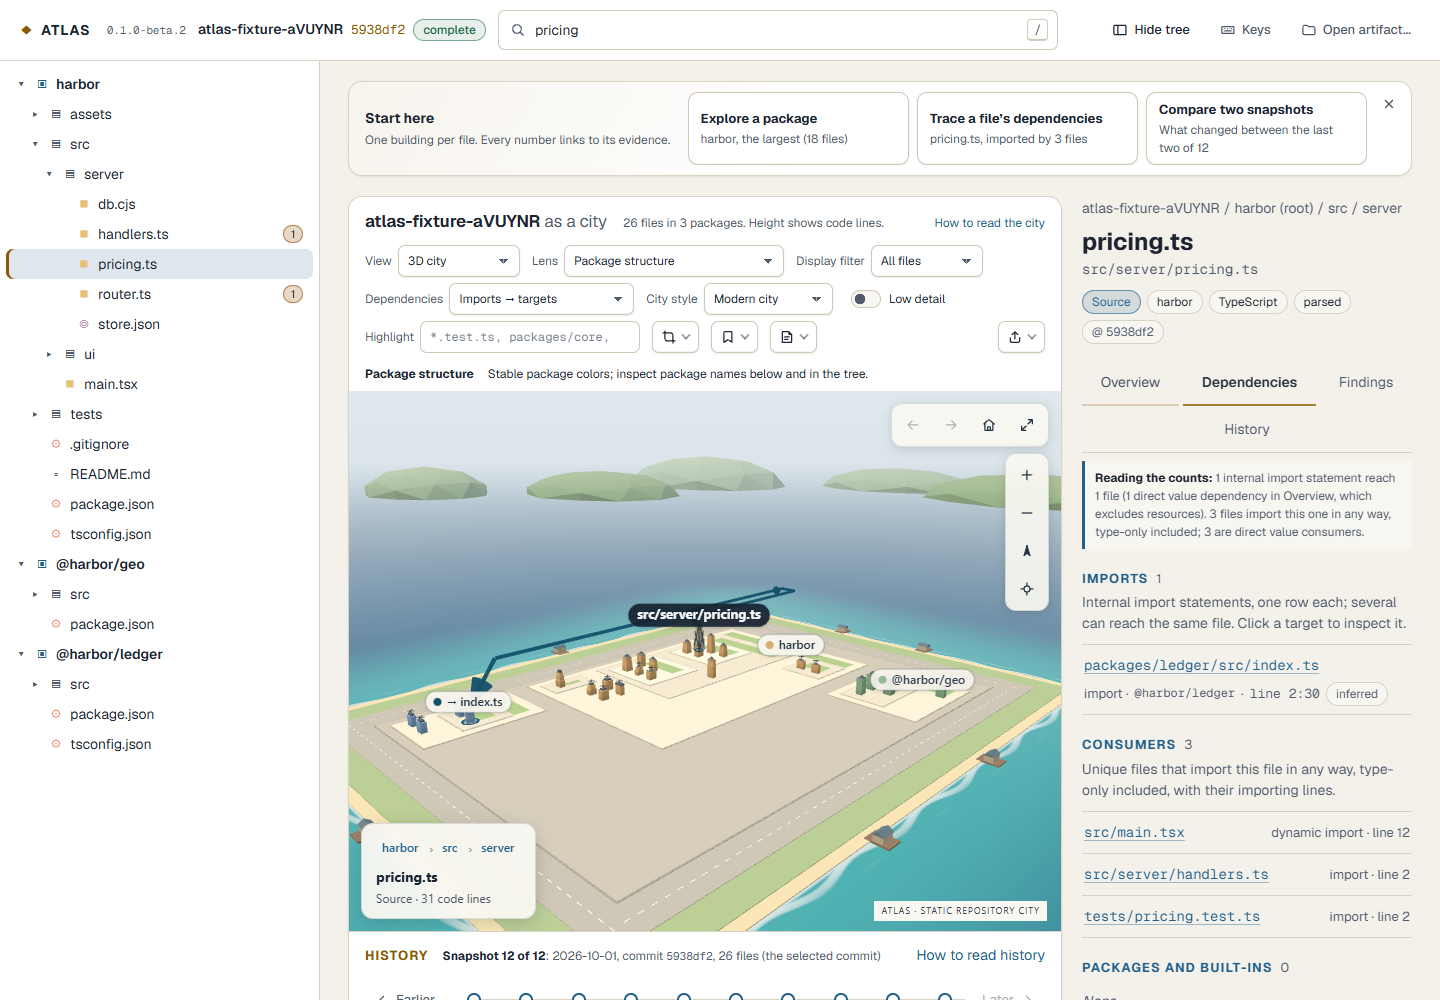
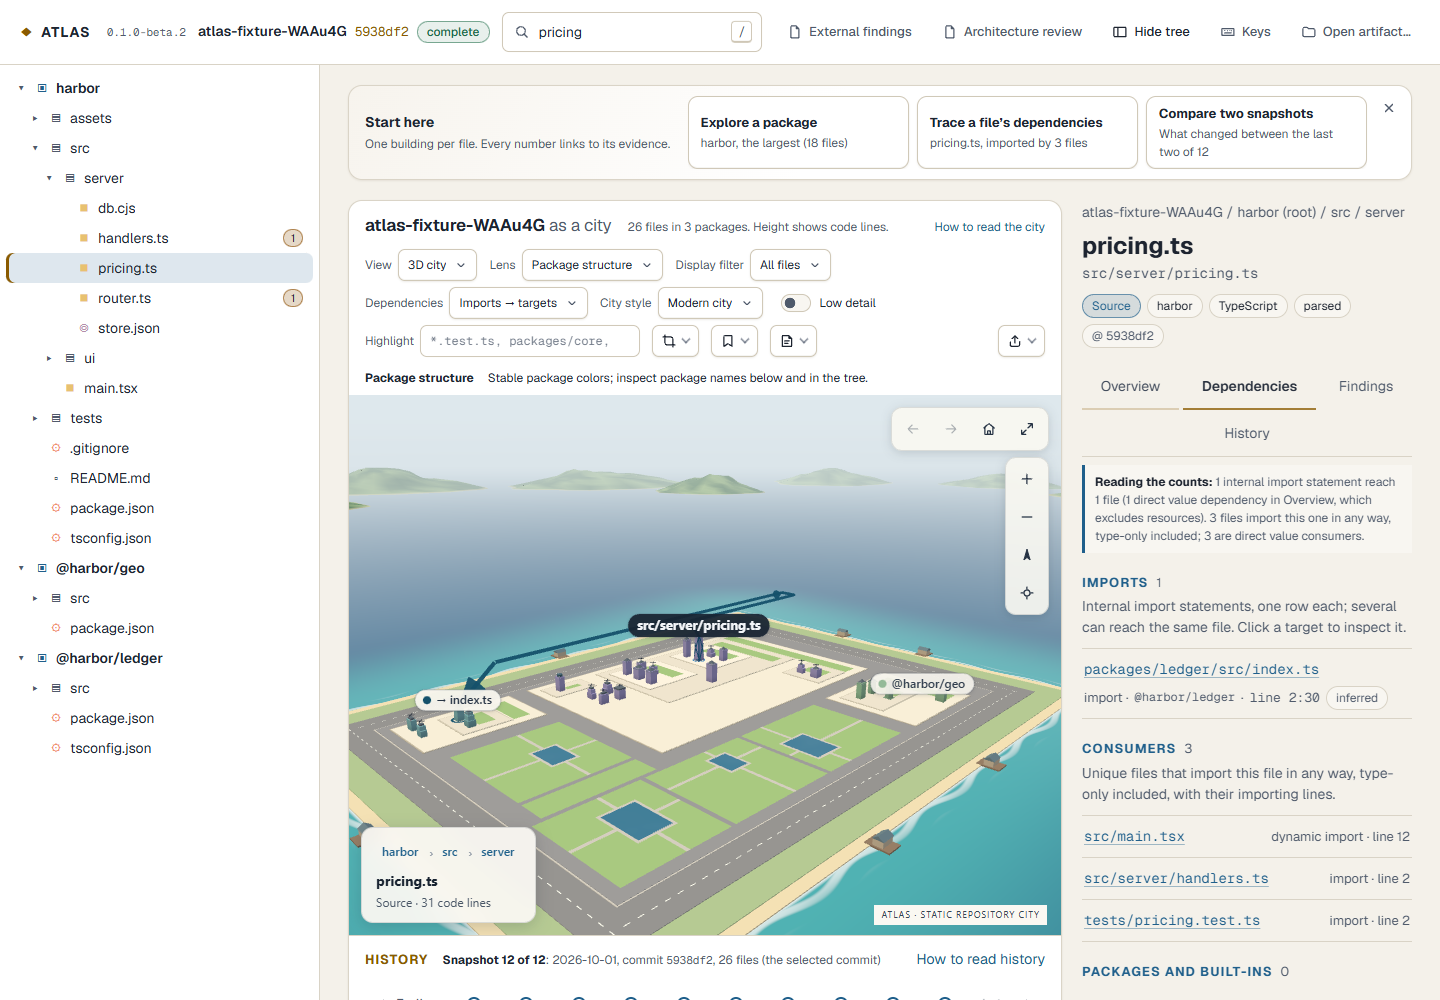
Fix the four CI failures on the dropdowns PR (ADR-106)
- Focus race (verify, Ubuntu): Radix hands focus back to a closed list's
  trigger a task later. A decision chosen in one dropdown opened the draft
  editor, which focused its own field, and the late hand-back pulled focus
  away, failing the keyboard journey. The trigger now takes focus back only
  if nothing else has taken it meanwhile; mouse, keyboard and Escape still
  return focus to the trigger.
- License text (verify, macOS and Windows): react-remove-scroll-bar@2.3.8,
  pulled in by Radix, was published without a license file, so the CLI
  distribution stopped. As for @react-three/fiber@9.8.2, the packager now
  supplies the author's MIT text for that exact version, pinned to the
  upstream Git blob 7c08c399.
- Scrolling list (viewer journeys, Firefox): the grouped Lens list (about
  460 px) scrolled inside a 360 px panel and a choice near its end timed out
  once. The panel may now grow to 520 px or the space available, and the
  test helper brings a choice into view before clicking it.
- The distribution smoke test and the demo-site deploy check still used
  selectOption; they now open the dropdown and pick by value. Without this
  the next demo deploy would have failed.

Verified locally: viewer journeys 64/64 in Chromium (CI mode) and Firefox;
pnpm verify:distribution passes all 26 stages; check-demo-site reports no
problems.

Claude-Session: https://claude.ai/code/session_01XTC9nrJrtX2mTuDbkYysxQ

diff --git a/apps/web/src/components/Select.tsx b/apps/web/src/components/Select.tsx
@@ -55,7 +55,19 @@ export function Select({ value, onValueChange, choices, id, disabled, title, cla
         </Primitive.Icon>
       </Primitive.Trigger>
       <Primitive.Portal>
-        <Primitive.Content className="select-content" position="popper" sideOffset={6} collisionPadding={8}>
+        <Primitive.Content
+          className="select-content"
+          position="popper"
+          sideOffset={6}
+          collisionPadding={8}
+          // Closing hands focus back to the trigger, but Radix does it a task later. If
+          // something else has taken focus by then (a choice that opened an editor, a fast
+          // keyboard user), leave it there instead of pulling it back.
+          onCloseAutoFocus={(event) => {
+            const active = document.activeElement;
+            if (active && active !== document.body && !active.closest('.select-content')) event.preventDefault();
+          }}
+        >
           <Primitive.ScrollUpButton className="select-scroll">
             <Icon name="chevronUp" size={14} />
           </Primitive.ScrollUpButton>

diff --git a/packages/cli/test/viewer.e2e.test.ts b/packages/cli/test/viewer.e2e.test.ts
@@ -191,8 +191,14 @@ const focusedText = (page: Page) =>
 async function chooseOption(select: Locator, value: string): Promise<void> {
   await select.click();
   const page = select.page();
-  await page.locator(`[role="option"][data-value="${value}"]`).click();
+  const option = page.locator(`[role="option"][data-value="${value}"]`);
+  // A long list scrolls inside its panel: bring the choice into view before clicking it.
+  await option.evaluate((element) => element.scrollIntoView({ block: 'nearest' }));
+  await option.click();
   await page.locator('.select-content').waitFor({ state: 'detached' });
+  // Let the close finish (React's effects and the focus hand-back run a frame and a task
+  // later), as a person's next action would, so the next step starts from a settled page.
+  await page.evaluate(() => new Promise((resolve) => requestAnimationFrame(() => setTimeout(resolve, 0))));
 }
 
 /** The current value of one of the viewer's dropdowns, as `inputValue` read it from a `<select>`. */

diff --git a/apps/web/src/styles/app.css b/apps/web/src/styles/app.css
@@ -913,7 +913,8 @@ h2:focus-visible {
 .select-content {
   z-index: 1000;
   min-width: var(--radix-select-trigger-width);
-  max-height: min(360px, var(--radix-select-content-available-height));
+  /* Tall enough for the grouped Lens list (about 460 px) without scrolling. */
+  max-height: min(520px, var(--radix-select-content-available-height));
   overflow: hidden;
   color: var(--text);
   background: var(--panel);

diff --git a/docs/release/distribution-smoke.md b/docs/release/distribution-smoke.md
@@ -1,17 +1,37 @@
 # CLI distribution candidate: fresh-install smoke
 
-Recorded 2026-10-18T15:36:00.333Z on Windows_NT 10.0.26200 x64, Node v24.22.0.
+Recorded 2026-11-21T09:02:48.872Z on Windows_NT 10.0.26200 x64, Node v24.22.1.
 
[2 lines of base64/hex data omitted]
 
 Extracted into a fresh temporary directory outside the checkout, verified every distributed file, and ran without a package manager or any dependency install. CLI entry-process outbound sockets were denied. The browser accepted only the loopback server origin.
 
-- relocated-extraction-and-integrity: passed (1586 files).
-- doctor: passed (0.81 s).
-- analyze: passed (6.35 s).
-- verify: passed (0.72 s).
-- inspect: passed (0.63 s).
+- relocated-extraction-and-integrity: passed (1709 files).
+- doctor: passed (0.72 s).
+- analyze: passed (1.74 s).
+- findings: passed (0.61 s).
+- findings: passed (0.63 s).
+- scan-evidence: passed (0.63 s).
+- analyze: passed (2.09 s).
+- findings: passed (0.69 s).
+- scan-evidence: passed (0.72 s).
+- findings: passed (0.64 s).
+- scan-evidence: passed (0.62 s).
+- review-findings: passed (1.02 s).
+- analyze: passed (4.02 s).
+- verify: passed (0.73 s).
+- inspect: passed (0.64 s).
+- review-architecture: passed (0.79 s).
+- review-architecture: passed (0.65 s).
+- workspace-init: passed (0.63 s).
+- workspace-decide: passed (0.65 s).
+- workspace-export: passed (0.67 s).
+- workspace-import: passed (0.65 s).
+- workspace-inspect: passed (0.74 s).
 - packaged-browser-city-history-search-and-dependencies: passed.
+- packaged-browser-workspace-evidence: passed.
+- workspace-import: passed (0.92 s).
+- packaged-browser-workspace-draft: passed.
 
 The authored Harbor repository yielded all 12 frames and 26 HEAD files. The bundled viewer opened that artifact, searched with the keyboard and showed its independently checked ledger dependency. Zero page errors or browser outbound requests. Software rendering validates behavior; it is not a reference-GPU benchmark.
 

diff --git a/docs/release/licenses/README.md b/docs/release/licenses/README.md
@@ -1,8 +1,20 @@
 # Supplementary distribution licenses
 
-The installed `@react-three/fiber@9.8.2` npm payload lacks its upstream license file. The CLI distribution includes the complete MIT text from the corresponding upstream tag, pinned to Git object `d74622ea8ed717f7212d7e19d65ff3e325508389`:
+Two installed npm payloads lack their upstream license file. The CLI distribution includes
+the complete MIT text for each from the upstream repository, pinned to a Git object:
 
-- [Upstream LICENSE](https://github.com/pmndrs/react-three-fiber/blob/d74622ea8ed717f7212d7e19d65ff3e325508389/LICENSE)
-- Local copy: `react-three-fiber-9.8.2-LICENSE`.
+- `@react-three/fiber@9.8.2`: the corresponding upstream tag,
+  [LICENSE at `d74622ea8ed717f7212d7e19d65ff3e325508389`](https://github.com/pmndrs/react-three-fiber/blob/d74622ea8ed717f7212d7e19d65ff3e325508389/LICENSE).
+  Local copy: `react-three-fiber-9.8.2-LICENSE`.
+- `react-remove-scroll-bar@2.3.8` (a dependency of `@radix-ui/react-select`, ADR-106). Its
+  `package.json` declares MIT (author Anton Korzunov). The repository had no license file
+  when 2.3.8 was published (2024-12-15; npm's `gitHead` is not on GitHub); the author added
+  the MIT text in
+  [`7301c160fda44cb8cf2b9fdfde61efad35736196`](https://github.com/theKashey/react-remove-scroll-bar/blob/7301c160fda44cb8cf2b9fdfde61efad35736196/LICENSE)
+  (blob `7c08c3990396ecefd90f99ff5d9a34f26f5b5616`, which the local copy matches).
+  Local copy: `react-remove-scroll-bar-2.3.8-LICENSE`.
 
-The packager uses this exception only for that exact package/version; a version change requires review of the corresponding license. All other third-party license texts come directly from the locked installed npm payloads. Building the distribution performs no network request.
+The packager uses these exceptions only for those exact packages and versions; a version
+change requires review of the corresponding license. All other third-party license texts
+come directly from the locked installed npm payloads. Building the distribution performs no
+network request.

diff --git a/docs/adr/ADR-106-radix-dropdowns.md b/docs/adr/ADR-106-radix-dropdowns.md
@@ -32,6 +32,24 @@ every platform.
   unchanged.
 - An empty value (the architecture rule filter's "All rules", where a real rule may be named
   `all`) maps to an internal sentinel, because Radix reserves the empty string.
+- Closing a list hands focus back to its trigger, but Radix does that a task later. In CI
+  (run on commit eeae327) a decision chosen in one dropdown opened the draft editor, the
+  editor focused its own first field, and the late hand-back pulled focus away again,
+  failing the keyboard journey that expects focus in the editor. The trigger now takes
+  focus back only if nothing else has taken it meanwhile; after a mouse choice, a keyboard
+  choice and Escape, focus still lands on the trigger.
+- The list panel may grow to 520 px (or the space available), so the grouped Lens list
+  (about 460 px) opens without scrolling. In CI Firefox (same run) a journey choosing a
+  lens near the end of the then-scrolling list timed out once; longer lists still scroll,
+  with arrows, and the test helper brings a choice into view before clicking it.
+- The CLI distribution ships every runtime dependency's license text. One new transitive
+  package, `react-remove-scroll-bar@2.3.8` (MIT), was published without a license file, so
+  `pnpm verify:distribution` stopped on it in CI (macOS). As for `@react-three/fiber@9.8.2`,
+  the packager supplies the author's MIT text for that exact version from
+  `docs/release/licenses`, pinned to the upstream Git blob.
+- The distribution smoke test (`scripts/verify-cli-package.mjs`) and the demo-site deploy
+  check (`scripts/check-demo-site.mjs`) picked choices with `selectOption`; they now open
+  the dropdown and pick by value, like the journeys.
 - Native checkboxes, buttons, text fields and the existing `<details>` menus are unchanged,
   with one fix found while reviewing them: the city card clips its overflow, so at a
   1440 px window the Notes menu was cut off at the card's right edge. A menu that would
